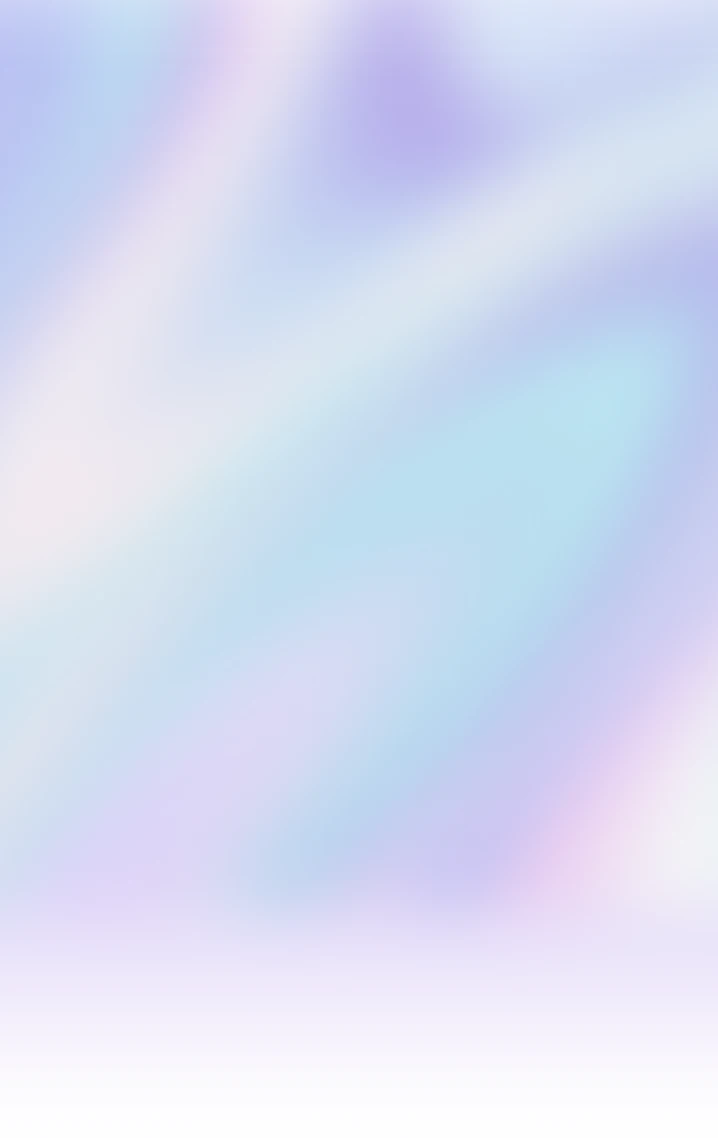
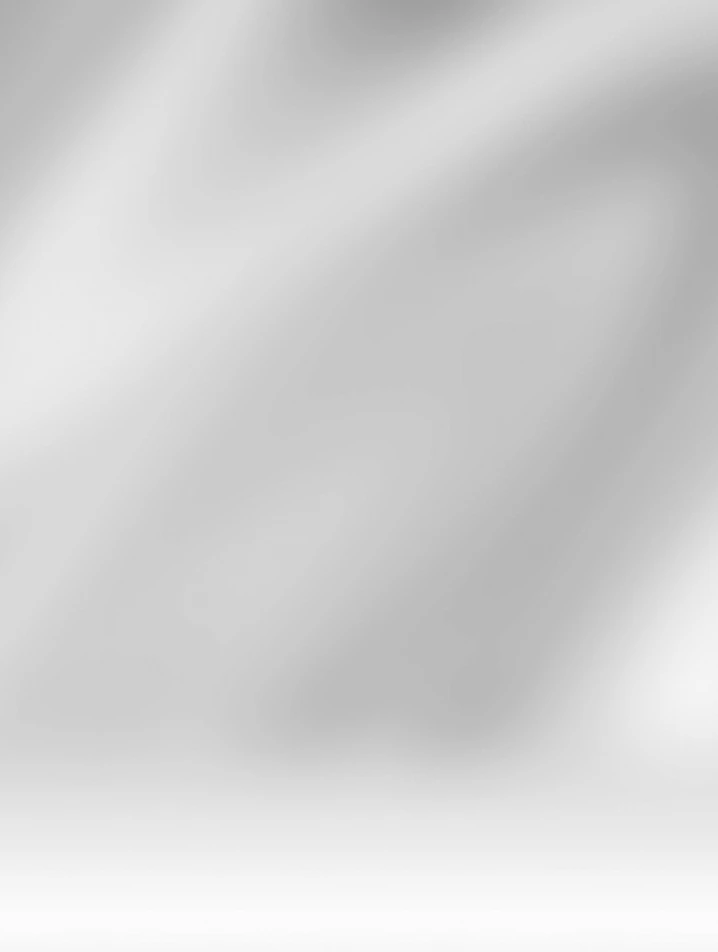
Make Aurora 2 grey, and drive both modes off one prominence knob
The designer put a luminosity blend over the colour art so only its luminance
reaches the page (3195:96616) and called that the better background. The blend
is FLATTENED INTO THE EXPORT rather than applied at runtime, which is what the
canon scene does: a CSS mix-blend-mode would depend on the art layer never
sitting in its own stacking context, and the wrapper's opacity: 1 - f gives it
one the moment a chat opens.

Both files are relevelled off ONE knob so the modes carry equal prominence - a
spread of 95. Light is remapped to 160..255, dark to 0..95, so each departs
from its own page colour by the same amount.

Three misses got here, each a different failure and each worth keeping. At
228..255 the light file loaded and painted correctly and was still invisible,
so a remap that lands too near the page colour is indistinguishable from a
broken asset - measure the PAINTED pixels, not the file. At 188..249, the Figma
original, the field never resolved to white anywhere, which is what made it
read as dirty rather than dim; landing the top end on 255 matters more than the
floor. And a gentle stretch of a source spanning only 61 levels leaves no
structure at all - no visible waves is a contrast problem, not a brightness one.

The light veil is gone with the colour art it was compensating for, and being
genuinely greyscale takes the pair under 9 KB each, from 88 KB and 42 KB.

diff --git a/app/globals.css b/app/globals.css
@@ -1357,21 +1357,28 @@ textarea,
    The one variant whose LIGHT side is a supplied file rather than drawn — the
    designer handed over the art, so light uses it verbatim. It is not `gen_`
    prefixed on purpose: that prefix means generated, and this was given to us.
-   BOTH modes are supplied files now (2026-09-22): the designer sent the light
-   art first, then the dark. Dark carries NO veil — 100% was the explicit ask —
-   while light keeps a 0.22 white veil so it sits back. An earlier dark side
-   redrew the composition in CSS for the night register; it is gone, and the
-   reason it existed is still true if a mode ever lacks art: a black veil over a
-   pastel goes muddy rather than nocturnal, and background layers here cannot
-   blend or hue-shift, so the redraw has to be a redraw.
+   Both modes are supplied files, and both are GREY (3195:96616). The designer
+   put a luminosity blend over the colour art so only its luminance survives —
+   the hue never reaches the page — and called that the better background. The
+   blend is FLATTENED INTO THE EXPORT rather than applied at runtime, which is
+   what the canon scene above does too: a CSS `mix-blend-mode: luminosity` would
+   depend on the art layer not sitting in its own stacking context, and the
+   wrapper's `opacity: 1 - f` gives it one the moment a chat opens.
+   Neither file is veiled now. Light carried a 0.22 white veil while the art was
+   the colour version and needed to sit back; grey already sits back, and the
+   Figma frames show both modes unveiled.
+   Both files are relevelled off ONE knob so the two modes carry the same
+   prominence: a SPREAD of 95: light is remapped to 160–255 (floor = 255 −
+   spread), dark to 0–95 (peak = spread), so each departs from its own page
+   colour by the same amount. Do not tune one mode without the other.
+   Being genuinely greyscale also makes them tiny — under 9 KB each, against
+   88 KB and 42 KB for the colour pair.
    The art layer stretches the file to the 4/5 field (`100% 100%`) instead of
    covering it, because the composition's own fade to white lives at the bottom
    and `cover` would crop exactly that away. Stretching a soft gradient by 12%
    is invisible; losing its foot is not. */
 .re1-ambient[data-re1-scene="aurora2"] {
-  --re1-amb-scene:
-    linear-gradient(180deg, rgba(255, 255, 255, 0.22) 0px, rgba(255, 255, 255, 0.22) 448px, rgba(255, 255, 255, 0) 458px),
-    url("/return-exp1/ambient/variants/scene-aurora2-light.webp");
+  --re1-amb-scene: url("/return-exp1/ambient/variants/scene-aurora2-light.webp");
   --re1-amb-scene-mobile: var(--re1-amb-scene);
   --re1-amb-scene-size: 100% 100%;
   --re1-amb-scene-pos: top center;

diff --git a/GENERATED_ASSETS.md b/GENERATED_ASSETS.md
@@ -15,20 +15,38 @@ their own file). The goal choices are now **Airplane** (default), **Holo glass**
 **Top background** is six on 2026-09-22 after four cuts (designer's call): **Off**,
 **Aurora**, **Aurora 2**, and three variations — **· soft**, **· veil**, **· dusk**.
 
-**Aurora 2** is the only entry supplied as artwork rather than drawn or generated: the
-designer sent `scene-aurora2-light.webp`, then `scene-aurora2-dark.webp`. Neither is
-`gen_` prefixed on purpose — that prefix means generated, and these were handed over, so
-it would misfile them. Light carries a 0.22 white veil so it sits back; dark carries none,
-at the designer's explicit ask for 100%.
+**Aurora 2** is the only entry supplied as artwork rather than drawn or generated, and as
+of 2026-09-22 it is GREY in both modes (Figma 3195:96616). The designer put a luminosity
+blend over the colour art so only its luminance survives — the hue never reaches the page —
+and called that the better background. Neither file is `gen_` prefixed: that prefix means
+generated, and these were handed over.
 
-An earlier dark side redrew the light composition in CSS for the night register. It is
-gone, but the reason it existed still holds if a mode ever arrives without art: a black
-veil over a pastel goes muddy rather than nocturnal, and the background layers here cannot
-blend or hue-shift, so the fallback has to be a genuine redraw, not a darkened copy.
+The blend is FLATTENED INTO THE EXPORT, not applied at runtime, which is what the canon
+scene does too. A CSS `mix-blend-mode: luminosity` would depend on the art layer never
+sitting in its own stacking context, and the wrapper's `opacity: 1 - f` gives it one the
+moment a chat opens.
 
-Both modes STRETCH their file to the 4/5 field rather than covering it, because each
-composition's own fade lives at its bottom edge and `cover` would crop away exactly that;
-stretching a soft gradient by 12% is invisible, losing its foot is not.
+BOTH files are RELEVELLED off ONE knob, and this is the part worth remembering. Straight
+out of Figma light ran 188–249 and dark 0–86 — light never reached the page white, so it
+read as a grey slab behind white cards, and neither showed much wave. They are now driven
+by a single SPREAD of 95: light is remapped to 160–255 (floor = 255 − spread) and dark to
+0–95 (peak = spread), so each departs from its own page colour by the same amount and the
+two read with the same prominence rather than being tuned independently.
+
+Getting there took three misses worth recording, because each was a different failure. At
+228–255 the light file measured fine and loaded fine but was invisible — a remap that
+lands too close to the page colour is indistinguishable from a broken asset, so measure
+the PAINTED pixels (sample the rendered page, not the file) before concluding anything is
+wrong. At 188–249, the Figma original, the field never resolved to white anywhere, which
+is what made it read as dirty rather than dim; landing the top end on 255 matters more
+than the floor does. And a gentle stretch of a source that only spans 61 levels leaves no
+visible structure at all — "can't see the aurora waves" is a CONTRAST problem, not a
+brightness one.
+
+Being genuinely greyscale makes them tiny — 2.5 KB and 6.1 KB, against 88 KB and 42 KB for
+the colour pair they replaced. Both modes STRETCH their file to the 4/5 field rather than
+covering it, because each composition's own fade lives at its bottom edge and `cover` would
+crop away exactly that. Neither carries a veil.
 
 **Aurora** is the generated 2026-09-18 scene, unchanged. The three variations are drawn in
 CSS, which is the point of having them: a PNG cannot be retuned, they can. Their bands are
